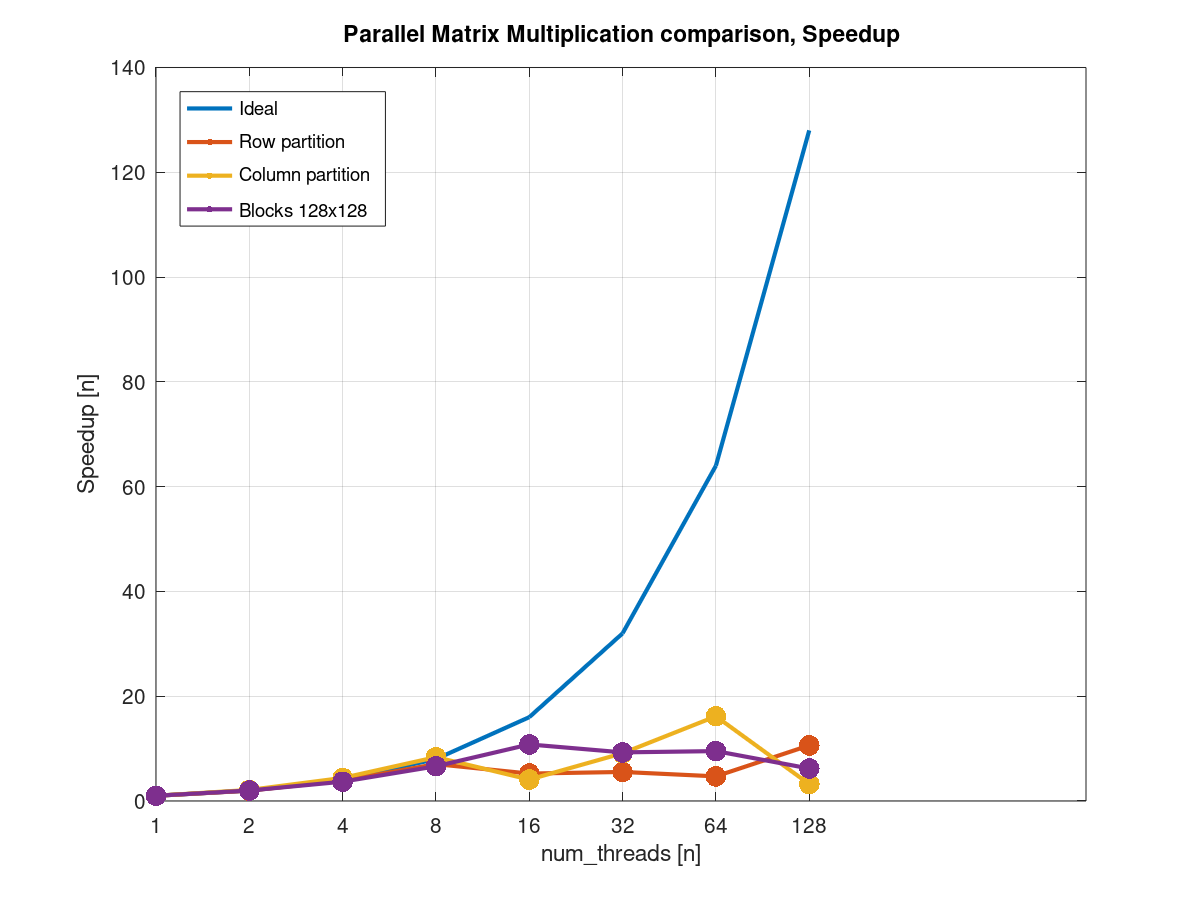
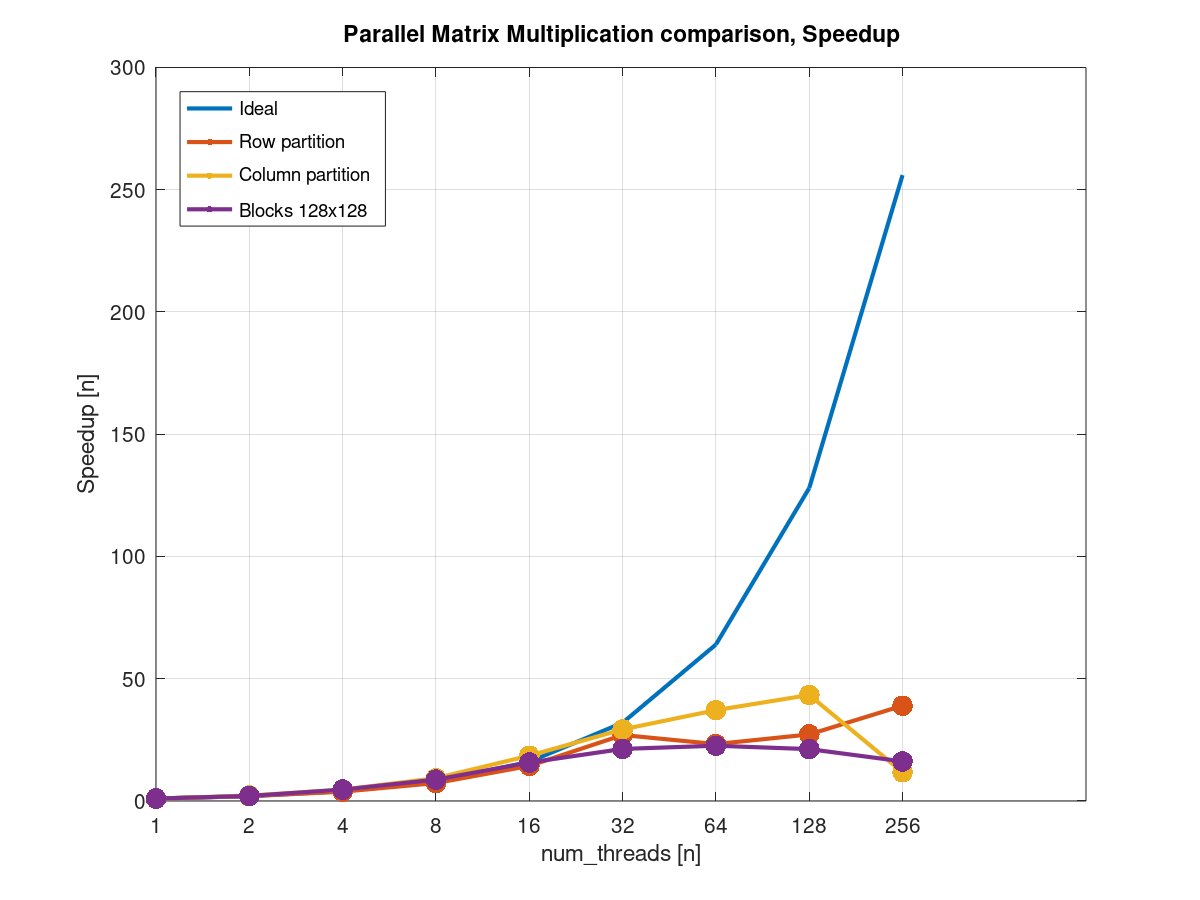
results from second cluster test

diff --git a/matMulBlockPar.cpp b/matMulBlockPar.cpp
@@ -11,7 +11,7 @@
 
 #define MASTER 0
 
-#define N_TRIALS 3
+#define N_TRIALS 2
 // To reduce spikes an averege will be performed
 
 using namespace std;
@@ -62,25 +62,25 @@ int main(int argc, char** argv)
 		for (i=0;i<3;++i){
 			switch(i){
 				case 0:
-					ROW_N_A = 512;
-					COL_N_A = 512;
-					COL_N_B = 512;
-					BLOCK_ROW_N = 8;
-					BLOCK_COL_N = 8;
+					ROW_N_A = 1024;
+					COL_N_A = 1024;
+					COL_N_B = 1024;
+					BLOCK_ROW_N = 16;
+					BLOCK_COL_N = 16;
 					break;
 				case 1:
-					ROW_N_A = 512;
-					COL_N_A = 512;
-					COL_N_B = 512;
-					BLOCK_ROW_N = 32;
-					BLOCK_COL_N = 32;
+					ROW_N_A = 1024;
+					COL_N_A = 1024;
+					COL_N_B = 1024;
+					BLOCK_ROW_N = 64;
+					BLOCK_COL_N = 64;
 					break;
 				case 2:
-					ROW_N_A = 512;
-					COL_N_A = 512;
-					COL_N_B = 512;
-					BLOCK_ROW_N = 128;
-					BLOCK_COL_N = 128;
+					ROW_N_A = 1024;
+					COL_N_A = 1024;
+					COL_N_B = 1024; 
+					BLOCK_ROW_N = 256;
+					BLOCK_COL_N = 256;
 					break;
 			}
 			execution_time = 0.0;

diff --git a/matMul.cpp b/matMul.cpp
@@ -7,7 +7,7 @@
 
 #include <chrono>
 
-#define N_TRIALS 3
+#define N_TRIALS 2
 // To reduce spikes an averege will be performed
 
 using namespace std;
@@ -44,9 +44,9 @@ int main(int argc, char** argv)
 	// For the matrices to be product compatible, if the first is ROW_N_A x COL_N_A,
 	// the second must be COL_N_A x COL_N_B.
 	
-	ROW_N_A = 512;
-	COL_N_A = 512;
-	COL_N_B = 512;
+	ROW_N_A = 1024;
+	COL_N_A = 1024;
+	COL_N_B = 1024;
 	execution_time = 0.0;
 	
 	for (i=0;i<N_TRIALS;++i){

diff --git a/matMulColsPar.cpp b/matMulColsPar.cpp
@@ -11,7 +11,7 @@
 
 #define MASTER 0
 
-#define N_TRIALS 3
+#define N_TRIALS 2
 // To reduce spikes an averege will be performed
 
 using namespace std;
@@ -57,9 +57,9 @@ int main(int argc, char** argv)
 	// the second must be COL_N_A x COL_N_B.
 	
 	for (scaling_type=0;scaling_type<2;++scaling_type){
-		ROW_N_A = 512;
-		COL_N_A = 512;
-		COL_N_B = 512;
+		ROW_N_A = 1024;
+		COL_N_A = 1024;
+		COL_N_B = 1024;
 		execution_time = 0.0;
 		
 		if (scaling_type == 1){

diff --git a/matMulRowsPar.cpp b/matMulRowsPar.cpp
@@ -11,7 +11,7 @@
 
 #define MASTER 0
 
-#define N_TRIALS 3
+#define N_TRIALS 2
 // To reduce spikes an averege will be performed
 
 using namespace std;
@@ -57,9 +57,9 @@ int main(int argc, char** argv)
 	// the second must be COL_N_A x COL_N_B.
 	
 	for (scaling_type=0;scaling_type<2;++scaling_type){
-		ROW_N_A = 512;
-		COL_N_A = 512;
-		COL_N_B = 512;
+		ROW_N_A = 1024;
+		COL_N_A = 1024;
+		COL_N_B = 1024;
 		execution_time = 0.0;
 		
 		if (scaling_type == 1){
